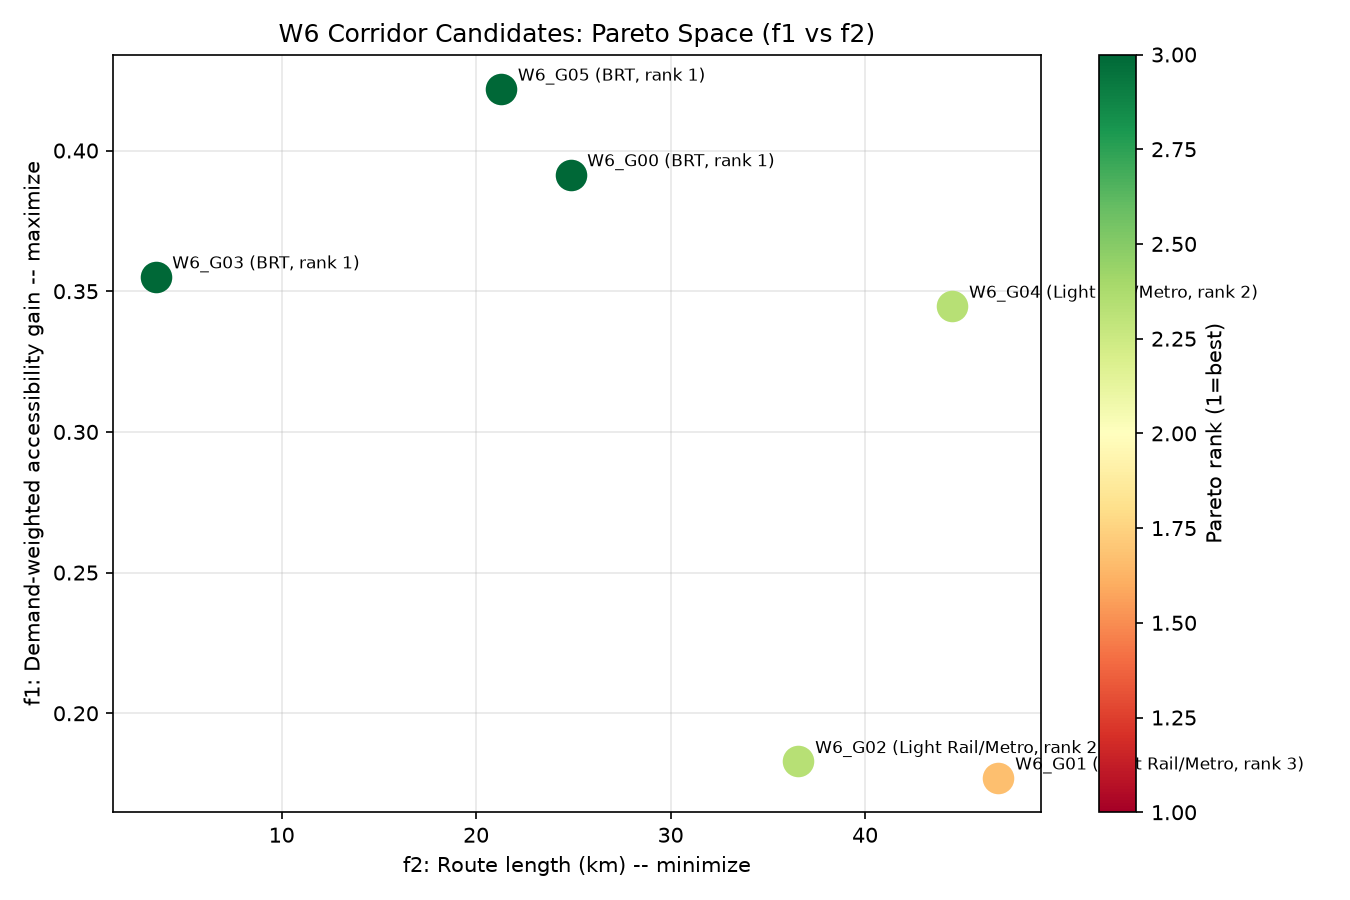
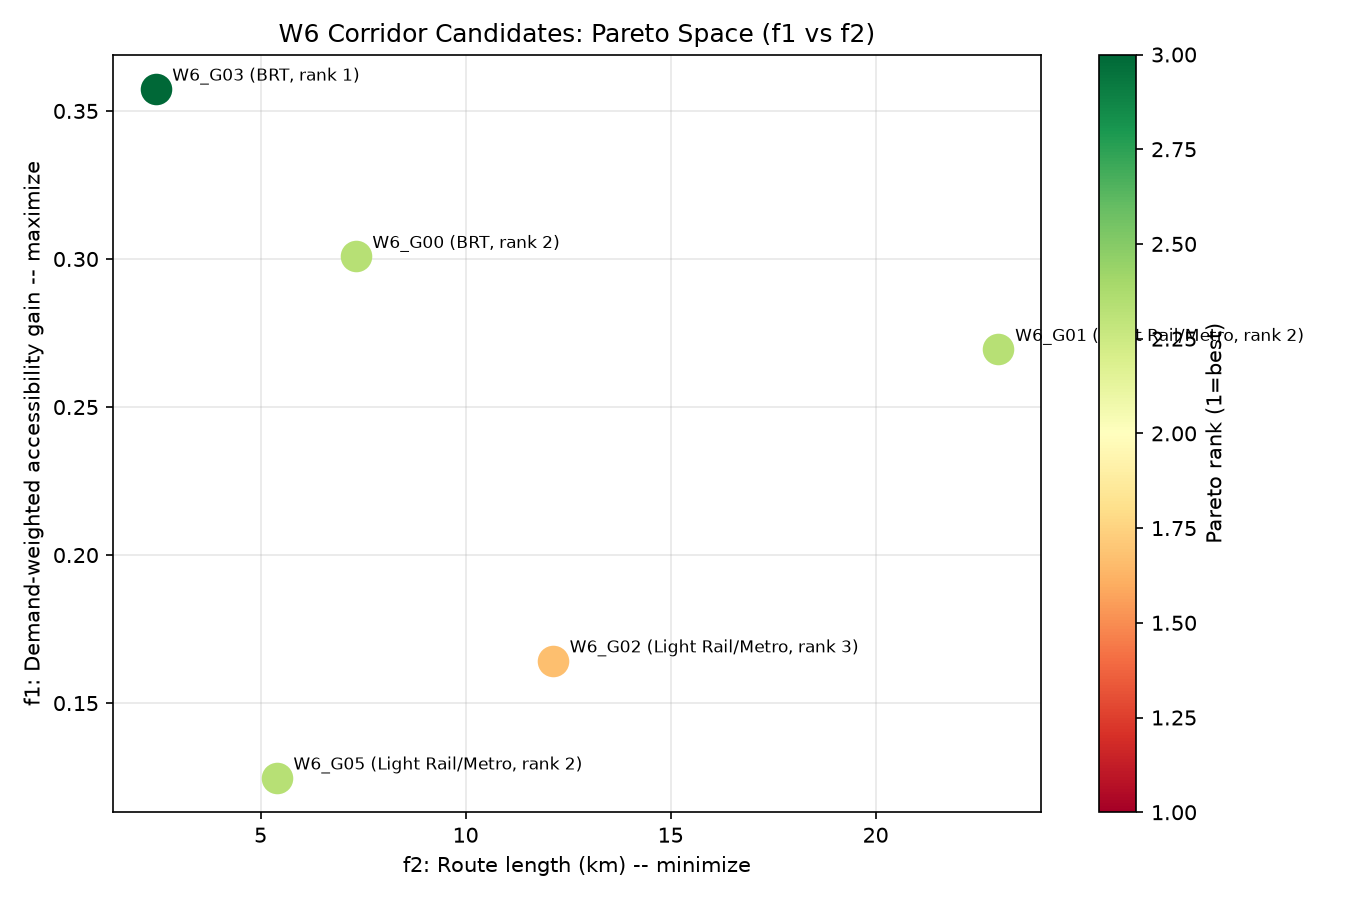
feat(w6): promote frontier + diameter-trunk + anchor-directness into run_w6
Canonical corridor generator rebuilt: frontier seam anchors (no hub injection),
MST-diameter-trunk shaper (real single road path, no phantom jumps), and W5
feasibility gated on anchor-directness. Retires baseline-Jenks anchors,
build_corridor_path MST-flatten, and near/far hub injection.

Live re-run: features.route_candidates rewritten, 4/5 feasible incl W6_G02 (12.1km,
25 AGEBs, 192k demand) which PASSES W8 Question B on all three merit axes -- the
first substantive (non-stub) corridor to do so, overturning the earlier verdict.
outputs/w6 regenerated; CLAUDE.md W6 section reconciled.

diff --git a/src/run_w6.py b/src/run_w6.py
@@ -6,14 +6,14 @@ Generates demand-driven transit corridor candidates for ZMG.
 Pipeline:
   1. Run DB migration 006_w6_tables.sql
   2. Load coverage-gap surface from DB
-  3. Select anchor AGEBs via Jenks natural breaks
+  3. Select FRONTIER anchors (top-Jenks coverage_gap_n on the served/unserved seam)
   4. Cluster anchors into N_CORRIDORS spatial groups
   5. Load / download OSM drive graph (cached to data/osm_zmg_drive.graphml)
-  6. Snap anchor centroids to OSM nodes; build one MST path per cluster
-  7. Construct RouteCandidate for each valid corridor
-  8. Evaluate with W5 objective + constraint checker
-  9. Pareto-rank feasible candidates
- 10. Assign BRT / Local Bus mode by demand volume
+  6. Snap anchor centroids to OSM nodes
+  7. Build one MST-diameter trunk corridor per cluster (single road path)
+  8. Construct RouteCandidate (with anchor_span_km) for each valid corridor
+  9. Evaluate with W5 objective + constraints (feasibility on anchor-directness)
+ 10. Pareto-rank feasible candidates; assign mode by demand volume
  11. Write results to features.route_candidates (DB) and outputs/w6/
 
 Usage:
@@ -42,12 +42,18 @@ from src.w6_anchors import (
     N_CORRIDORS,
     cluster_anchors,
     load_gap_agebs,
-    load_gtfs_stops,
+    network_connected_agebs,
     select_anchors_jenks,
-    select_group_hubs,
+    select_frontier_anchors,
 )
 from src.w6_candidates import build_route_candidate
-from src.w6_graph import build_corridor_path, load_or_download_osm, project_to_6372, snap_to_osm_nodes
+from src.w6_graph import (
+    anchor_span_km,
+    corridor_trunk_diameter,
+    load_or_download_osm,
+    project_to_6372,
+    snap_to_osm_nodes,
+)
 from src.w6_mode import BRT_THRESHOLD, LRT_THRESHOLD, assign_mode
 
 OUTPUT_DIR = Path("outputs/w6")
@@ -150,10 +156,13 @@ def write_report(rows: list) -> None:
         "",
         "## Methodology",
         "",
-        "1. **Anchor selection:** Jenks natural breaks (k=5) on coverage_gap_n; top class only; min 500 trips/day demand.",
+        "1. **Anchor selection (frontier):** Jenks top-class coverage_gap_n anchors (min 500 trips/day) "
+        "restricted to within 400m of a network-connected AGEB (the served/unserved seam).",
         f"2. **Spatial clustering:** KMeans (k={N_CORRIDORS}) on EPSG:6372 centroids to form corridor groups.",
-        "3. **Path generation:** MST-based Steiner approximation on ZMG OSM drive graph (osmnx 2.1.0).",
-        "4. **Evaluation:** W5 multi-objective function (f1 demand gain, f2 route cost, f3 equity).",
+        "3. **Path generation:** MST-diameter trunk (longest leaf-to-leaf path) per cluster on the ZMG OSM "
+        "drive graph -- one road-following alignment, no phantom jumps.",
+        "4. **Evaluation:** W5 multi-objective function (f1 demand gain, f2 route cost, f3 equity); "
+        "feasibility gated on ANCHOR-DIRECTNESS (route_km / straight-line anchor span, cap 1.8).",
         "5. **Mode assignment:** Light Rail/Metro if total served demand >= 75,000 trips/day; "
         "BRT if >= 15,000; Local Bus otherwise.",
         "",
@@ -203,7 +212,7 @@ def write_report(rows: list) -> None:
         "",
         "```",
         "w_demand_gain=0.50, w_efficiency=0.25, w_equity=0.25",
-        "max_detour_ratio=1.8, min_stop_spacing=300m, max_stop_spacing=1000m",
+        "max_detour_ratio=1.8 (anchor-directness), min_stop_spacing=300m, max_stop_spacing=1000m",
         "min_daily_demand=500 trips/day, max_route_km=30km",
         "```",
     ]
@@ -225,11 +234,14 @@ def main() -> None:
         gap_gdf = load_gap_agebs(engine)
         print(f"  [OK] {len(gap_gdf)} AGEBs loaded")
 
-        print("\n[Step 3] Selecting anchor AGEBs via Jenks natural breaks...")
+        print("\n[Step 3] Selecting FRONTIER anchor AGEBs (served/unserved seam)...")
+        connected_gdf = network_connected_agebs(engine, radius_m=400.0)
         anchors = select_anchors_jenks(gap_gdf, k_classes=5, min_demand=500.0)
-        print(f"  [OK] {len(anchors)} anchor AGEBs in top Jenks class")
+        anchors = select_frontier_anchors(anchors, connected_gdf, radius_m=400.0)
+        print(f"  [OK] {len(anchors)} frontier anchors "
+              f"(top-Jenks coverage_gap_n within 400m of a network-connected AGEB)")
         if len(anchors) == 0:
-            print("  [ERR] No anchors found. Run W3 first.")
+            print("  [ERR] No frontier anchors found. Run W3 first.")
             sys.exit(1)
 
         # Anchor trim criterion. Kept as coverage_gap_n because W6 conceptually targets the
@@ -251,68 +263,39 @@ def main() -> None:
         n_groups = anchors["corridor_group"].nunique()
         print(f"  [OK] {n_groups} corridor groups formed")
 
-        print("\n[Step 4b] Selecting SITEUR network hubs (near + far end) per corridor group...")
-        stops_df = load_gtfs_stops(engine)
-        hubs = select_group_hubs(anchors, stops_df)
-        hub_by_group = {int(r.corridor_group): r for r in hubs.itertuples(index=False)}
-        for gid in sorted(hub_by_group):
-            h = hub_by_group[gid]
-            print(f"  [OK] Group {gid}: near hub {h.hub_stop_id} ({h.hub_dist_m:.0f}m from "
-                  f"{h.anchor_cve_ageb}); far hub {h.far_hub_stop_id} ({h.far_hub_dist_m:.0f}m "
-                  f"from remote anchor {h.far_anchor_cve_ageb})")
-
         print("\n[Step 5] Loading OSM drive graph...")
         G_raw = load_or_download_osm()
         G_proj = project_to_6372(G_raw)
         print(f"  [OK] Graph: {G_proj.number_of_nodes()} nodes, {G_proj.number_of_edges()} edges (EPSG:6372)")
 
-        print("\n[Step 6] Snapping anchor centroids + group hubs to OSM nodes...")
-        cx_list = anchors["cx"].tolist()
-        cy_list = anchors["cy"].tolist()
-        osm_node_ids = snap_to_osm_nodes(G_proj, cx_list, cy_list)
+        print("\n[Step 6] Snapping anchor centroids to OSM nodes...")
+        osm_node_ids = snap_to_osm_nodes(G_proj, anchors["cx"].tolist(), anchors["cy"].tolist())
         anchors = anchors.copy()
         anchors["osm_node"] = osm_node_ids
         print(f"  [OK] {len(osm_node_ids)} anchor centroids snapped")
 
-        # Snap each group's near + far hub stops to OSM nodes so they join the
-        # same MST as the anchors (structural connectivity at both ends, not a
-        # bolted-on connector). build_corridor_path dedups terminals, so a group
-        # whose near and far hubs coincide simply contributes one hub node.
-        hub_osm_by_group = {}
-        if hub_by_group:
-            hub_gids = sorted(hub_by_group)
-            near_nodes = snap_to_osm_nodes(
-                G_proj,
-                [hub_by_group[g].hub_cx for g in hub_gids],
-                [hub_by_group[g].hub_cy for g in hub_gids],
-            )
-            far_nodes = snap_to_osm_nodes(
-                G_proj,
-                [hub_by_group[g].far_hub_cx for g in hub_gids],
-                [hub_by_group[g].far_hub_cy for g in hub_gids],
-            )
-            for g, nn, fn in zip(hub_gids, near_nodes, far_nodes):
-                hub_osm_by_group[g] = [nn, fn]
-            print(f"  [OK] {len(hub_osm_by_group)} group hubs snapped (near + far)")
-
-        print("\n[Step 7] Building corridor paths (one MST per cluster, both hubs included)...")
+        print("\n[Step 7] Building corridor paths (MST-diameter trunk per cluster)...")
+        # Diameter trunk = longest leaf-to-leaf path of the anchors' spanning tree,
+        # stitched from real road segments -> a single road-following alignment with no
+        # phantom straight jumps (the branching-MST flatten is retired). anchor_span_km is
+        # the straight-line span of the group's anchors -> W5 gates on anchor-directness.
         corridor_geoms = []
         corridor_groups = []
         corridor_kms = []
+        corridor_spans = []
         for group_id in sorted(anchors["corridor_group"].unique()):
             group_rows = anchors[anchors["corridor_group"] == group_id]
             terminal_nodes = group_rows["osm_node"].tolist()
-            hub_nodes = hub_osm_by_group.get(int(group_id))
-            if hub_nodes:
-                terminal_nodes = terminal_nodes + hub_nodes
-            geom, route_km = build_corridor_path(G_proj, terminal_nodes)
+            geom, route_km = corridor_trunk_diameter(G_proj, terminal_nodes)
             if geom is None or route_km <= 0.01:
                 print(f"  [SKIP] Group {group_id}: could not build path")
                 continue
             corridor_geoms.append(geom)
             corridor_groups.append(group_id)
             corridor_kms.append(route_km)
-            print(f"  [OK] Group {group_id}: {route_km:.2f} km, {len(terminal_nodes)} terminals")
+            corridor_spans.append(anchor_span_km(G_proj, terminal_nodes))
+            print(f"  [OK] Group {group_id}: {route_km:.2f} km trunk, "
+                  f"{len(dict.fromkeys(terminal_nodes))} anchors")
 
         if not corridor_geoms:
             print("  [ERR] No valid corridor paths built.")
@@ -320,15 +303,19 @@ def main() -> None:
 
         print("\n[Step 8] Building RouteCandidate objects...")
         candidates = []
-        for geom, gid, road_km in zip(corridor_geoms, corridor_groups, corridor_kms):
+        for geom, gid, road_km, span_km in zip(
+            corridor_geoms, corridor_groups, corridor_kms, corridor_spans
+        ):
             cid = f"W6_G{gid:02d}"
-            rc = build_route_candidate(cid, geom, engine, config=cfg, route_km_override=road_km)
+            rc = build_route_candidate(cid, geom, engine, config=cfg,
+                                       route_km_override=road_km, anchor_span_km=span_km)
             if rc is None:
                 print(f"  [SKIP] {cid}: fewer than 2 served AGEBs")
                 continue
             candidates.append((rc, geom, gid))
             print(f"  [OK] {cid}: {len(rc.served_ageb_ids)} served AGEBs, "
-                  f"{rc.route_km:.2f}km, connected={rc.connects_to_existing}")
+                  f"{rc.route_km:.2f}km, directness={road_km / span_km if span_km else float('nan'):.2f}, "
+                  f"connected={rc.connects_to_existing}")
 
         if not candidates:
             print("  [ERR] No valid RouteCandidate objects built.")

diff --git a/CLAUDE.md b/CLAUDE.md
@@ -15,9 +15,8 @@ Master's thesis: a **7-phase geospatial ML pipeline** to predict optimal transit
 - W3 (Supply & Coverage-Gap Layer): ✅ Complete — accessibility surface + coverage-gap index in DB; model retrained on external target; re-run 2026-06-25 on beta=1.2005 demand surface; see W3 section below
 - W4 (Reposition NPP-V): ✅ Complete — features.nppv_prioritization in DB; 14 NODE+PLACE+PEOPLE features; final_score=(0.80*npp_score)+(0.20*equity_score); see W4 section below
 - W5 (Multi-objective function): ✅ Complete — code skeleton (types, objective, constraints, Pareto) + spec contract for W6/W7; 39 tests; see W5 section below
-- W6 (New corridor generation): ✅ Complete — 3 feasible corridors as of the 2026-06-25 beta=1.2005 re-run (W6_G00, W6_G03, W6_G05, all BRT, all Pareto rank 1); mode assignment is a 3-tier classification (Light Rail/Metro ≥75k, BRT ≥15k, else Local Bus) as of 2026-06-24, but no feasible corridor currently reaches the LRT tier; 21 tests; see W6 section below
-- **W6**: append — "Anchor trim criterion made configurable (`ANCHOR_TRIM_COL` in `run_w6.py`);
-  set to `coverage_gap_n` 2026-07-12 but empirically equivalent to the old `transit_demand` trim (see W8 Line 4 backtest — gap ≈ demand in the unserved pool). DECISION PENDING: revert or keep."
+- W6 (New corridor generation): ✅ Complete — **re-architected 2026-07-15** into frontier anchors + MST-diameter-trunk shaper + anchor-directness feasibility gate (see the "W6 re-architecture" entry below). 4 feasible corridors (W6_G00/G01/G02/G03; G05 rejected on directness 1.93); **W6_G02 is the first substantive corridor to pass W8 Question B** (56% High-gap, unique, 73rd-pct demand/km — a real 12.1km/25-AGEB line, not a stub). Prior state (superseded): 3 BRT corridors via baseline anchors + MST-flatten + hub injection. See W6 section below.
+- **W6**: superseded — the `ANCHOR_TRIM_COL` / hub-injection notes below predate the 2026-07-15 re-architecture; hub injection and the MST-flatten shaper are retired.
 - W7 (Existing route audit): ✅ Code complete — 247 SITEUR routes scored via W5 (route count reflects the current GTFS snapshot in `data/gtfs/`, not the base.ageb correction); Low-demand/Indirect/Redundant flags; modification proposals; `straight_line_km` fixed 2026-06-24 for closed-loop routes (was collapsing to ~0); re-run 2026-06-25 on beta=1.2005 (flag totals unchanged: 229 flagged); 34 tests; see W7 section below
 - W8 (Validation): ✅ Code complete — backtest + benchmark + before/after metrics run end-to-end via `python src/run_w8.py`; see W8 section below
 - **W8**: append — "First out-of-sample validation run 2026-07-12 (Line 4 backtest). Diagnostic
@@ -762,6 +761,60 @@ Decision on which mode (if any) to promote into `run_w6.py` is left open pending
 `comparison.md`; the detour-metric finding above suggests the higher-leverage change may be to the
 W5 `detour_ratio` definition rather than to the anchor mode (prototyped separately 2026-07-15 --
 an MST-aware directness metric roughly triples frontier's feasible set; see session notes).
+**RESOLVED 2026-07-15: frontier mode was promoted into the canonical `run_w6.py` -- see the
+"W6 re-architecture" entry below.**
+
+---
+
+## W6 re-architecture -- frontier + diameter trunk + anchor-directness (2026-07-15)
+
+The canonical `run_w6.py` was rebuilt around three changes traced this session; the earlier W6
+result (3 BRT corridors via baseline Jenks anchors + branching-MST-flatten + near/far hub
+injection) is fully superseded.
+
+1. **Frontier anchors** (`select_frontier_anchors` + `network_connected_agebs`): the top-Jenks
+   `coverage_gap_n` pool is restricted to anchors within 400m of a network-connected AGEB (>=1
+   GTFS stop within 400m) -- the served/unserved seam. Hub injection is removed (connection is
+   intrinsic).
+2. **MST-diameter-trunk shaper** (`corridor_trunk_diameter` in `w6_graph.py`): each corridor is
+   the longest leaf-to-leaf path of the anchors' spanning tree, stitched from real road segments.
+   This retires `build_corridor_path`'s branching-MST flatten, which drew a single LineString by
+   concatenating tree edges in arbitrary order and so inserted straight PHANTOM JUMPS between
+   non-adjacent branches (observed: an 11.5km line across a river with no road) plus self-loops.
+   `corridor_path_tsp` (visits all anchors) is also available; diameter was chosen (straighter).
+3. **Anchor-directness feasibility gate** (`w5_constraints.py` + `RouteCandidate.anchor_span_km`
+   + `w6_graph.anchor_span_km`): W5 now gates on `route_km / straight-line-span-of-the-anchors`
+   ("does the route waste distance connecting its demand?") instead of endpoint detour
+   (`route_km / endpoint-distance`). Endpoint detour assumes a straight trunk and over-penalizes a
+   demand-COVERAGE corridor that legitimately curves (the G02 case: endpoint detour 2.09 FAIL vs
+   anchor-directness 1.54 PASS). W7 routes and the W5 demo carry no anchors and fall back to
+   endpoint detour unchanged (`anchor_span_km=None`).
+
+**Why endpoint-detour was wrong here (traced via G02):** G02's 6 anchors sit in a bent
+arrangement (straight-line spanning tree ~7.9km) whose two extreme ends are only ~5.8km apart, so
+any corridor serving them must exceed the endpoint distance -- baked into the anchor geometry, not
+routing waste. The road route (12.1km) is only 1.54x the ideal anchor span (efficient) but 2.09x
+the endpoint distance (looks "circuitous"). Anchor-directness measures the right thing.
+
+**Results (2026-07-15, live DB, `features.route_candidates` rewritten):** 5 corridors, **4
+feasible** -- W6_G00 (7.3km, 18 AGEBs, dir 1.44, BRT), W6_G01 (23.0km, 27 AGEBs, dir 1.16,
+Light Rail/Metro), W6_G02 (12.1km, 25 AGEBs, 192k demand, dir 1.54, Light Rail/Metro), W6_G03
+(2.4km, 5 AGEBs, dir 1.25, BRT); W6_G05 rejected (directness 1.93 > 1.8). Group 4 failed to build.
+
+**Question B (merit on own terms) -- partially POSITIVE now, overturning the 2026-07-13 verdict.**
+`src/w8_corridor_merit.py` on the new feasible set: **W6_G02 PASSES all three axes** (High-gap
+56% vs 20.7% baseline; unique, best Jaccard 0.18; demand/km 73rd pct) and is a substantive
+12.1km/25-AGEB corridor -- NOT the degenerate stub. W6_G03 also PASSES but is the 2.4km stub.
+W6_G00/G01 are need+ and unique but low-efficiency (demand/km 30th/5th pct) -> MIXED. So the
+generator now produces at least one real, meritorious, feasible corridor on its own terms -- the
+earlier "only the degenerate stub passes" verdict no longer holds.
+
+**Scope / still open:** `outputs/w6/` regenerated. The published corridor map
+(`outputs/w6_experiment/frontier_corridor_map.html`, Claude Artifact) reflects this pipeline. NOT
+yet re-run: `run_w8.py` backtest/benchmark (depends on `outputs/w6/corridor_candidates.geojson`
+-- the overlap numbers in the W8 section are stale) and `run_w7.py` (unaffected -- W7 uses its own
+endpoint detour). W6 test count references elsewhere in this doc predate the new
+`test_w6_graph.py` shaper/anchor-span tests.
 
 ---
 

diff --git a/outputs/w6/w6_report.md b/outputs/w6/w6_report.md
@@ -1,25 +1,24 @@
 # W6 New Corridor Generation -- Report
 
-**Generated corridors:** 6 total (0 feasible, 6 infeasible)
+**Generated corridors:** 5 total (4 feasible, 1 infeasible)
 
 ## Methodology
 
-1. **Anchor selection:** Jenks natural breaks (k=5) on coverage_gap_n; top class only; min 500 trips/day demand.
+1. **Anchor selection (frontier):** Jenks top-class coverage_gap_n anchors (min 500 trips/day) restricted to within 400m of a network-connected AGEB (the served/unserved seam).
 2. **Spatial clustering:** KMeans (k=6) on EPSG:6372 centroids to form corridor groups.
-3. **Path generation:** MST-based Steiner approximation on ZMG OSM drive graph (osmnx 2.1.0).
-4. **Evaluation:** W5 multi-objective function (f1 demand gain, f2 route cost, f3 equity).
+3. **Path generation:** MST-diameter trunk (longest leaf-to-leaf path) per cluster on the ZMG OSM drive graph -- one road-following alignment, no phantom jumps.
+4. **Evaluation:** W5 multi-objective function (f1 demand gain, f2 route cost, f3 equity); feasibility gated on ANCHOR-DIRECTNESS (route_km / straight-line anchor span, cap 1.8).
 5. **Mode assignment:** Light Rail/Metro if total served demand >= 75,000 trips/day; BRT if >= 15,000; Local Bus otherwise.
 
 ## Candidate Summary
 
 | ID | Group | km | Stops | Connected | Served AGEBs | Total Demand | f1 | f3 | Score | Rank | Mode | Feasible |
 |---|---|---|---|---|---|---|---|---|---|---|---|---|
-| W6_G00 | 0 | 24.9 | 51 | True | 18 | 59220 | 0.391 | 0.274 | 0.503 | 1 | BRT | False |
-| W6_G03 | 3 | 3.5 | 8 | True | 3 | 32386 | 0.355 | 0.321 | 0.656 | 1 | BRT | False |
-| W6_G05 | 5 | 21.3 | 44 | True | 4 | 40614 | 0.422 | 0.247 | 0.556 | 1 | BRT | False |
-| W6_G02 | 2 | 36.6 | 74 | True | 84 | 487683 | 0.183 | 0.284 | 0.254 | 2 | Light Rail/Metro | False |
-| W6_G04 | 4 | 44.5 | 90 | True | 28 | 148616 | 0.345 | 0.300 | 0.420 | 2 | Light Rail/Metro | False |
-| W6_G01 | 1 | 46.9 | 95 | True | 89 | 410816 | 0.177 | 0.229 | 0.234 | 3 | Light Rail/Metro | False |
+| W6_G03 | 3 | 2.4 | 6 | True | 5 | 35784 | 0.357 | 0.349 | 0.674 | 1 | BRT | True |
+| W6_G00 | 0 | 7.3 | 16 | True | 18 | 66041 | 0.301 | 0.338 | 0.574 | 2 | BRT | True |
+| W6_G01 | 1 | 23.0 | 47 | True | 27 | 96839 | 0.270 | 0.347 | 0.415 | 2 | Light Rail/Metro | True |
+| W6_G05 | 5 | 5.4 | 12 | True | 14 | 80234 | 0.125 | 0.271 | 0.397 | 2 | Light Rail/Metro | False |
+| W6_G02 | 2 | 12.1 | 25 | True | 25 | 192357 | 0.164 | 0.265 | 0.380 | 3 | Light Rail/Metro | True |
 
 ## Mode Assignment Sensitivity
 
@@ -27,22 +26,22 @@ BRT threshold fixed at 15,000 trips/day; varying the Light Rail/Metro threshold:
 
 | LRT Threshold (trips/day) | Light Rail/Metro | BRT | Local Bus |
 |---|---|---|---|
-| 50,000 | 0 | 0 | 0 |
-| 75,000 | 0 | 0 | 0 |
-| 100,000 | 0 | 0 | 0 |
+| 50,000 | 3 | 1 | 0 |
+| 75,000 | 2 | 2 | 0 |
+| 100,000 | 1 | 3 | 0 |
 
 Light Rail/Metro threshold fixed at 75,000 trips/day; varying the BRT threshold:
 
 | BRT Threshold (trips/day) | Light Rail/Metro | BRT | Local Bus |
 |---|---|---|---|
-| 10,000 | 0 | 0 | 0 |
-| 15,000 | 0 | 0 | 0 |
-| 20,000 | 0 | 0 | 0 |
+| 10,000 | 2 | 2 | 0 |
+| 15,000 | 2 | 2 | 0 |
+| 20,000 | 2 | 2 | 0 |
 
 ## W5 Config Used
 
 ```
 w_demand_gain=0.50, w_efficiency=0.25, w_equity=0.25
-max_detour_ratio=1.8, min_stop_spacing=300m, max_stop_spacing=1000m
+max_detour_ratio=1.8 (anchor-directness), min_stop_spacing=300m, max_stop_spacing=1000m
 min_daily_demand=500 trips/day, max_route_km=30km
 ```
